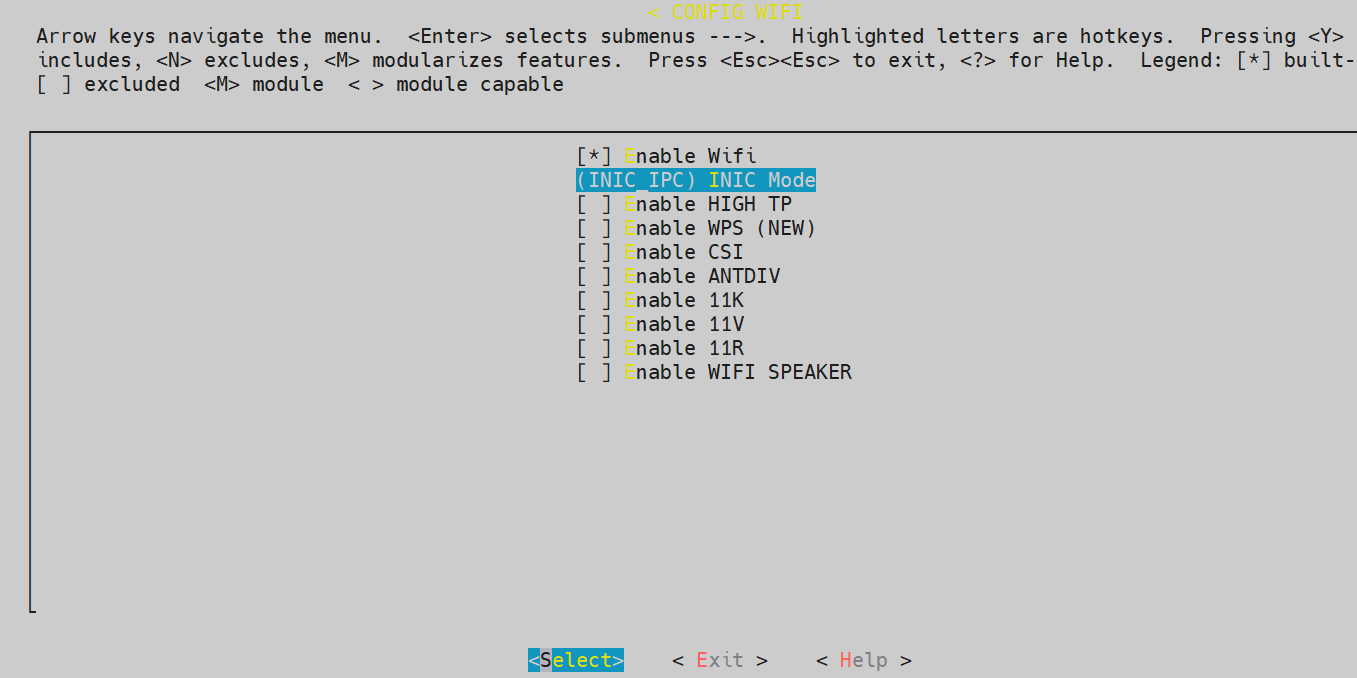
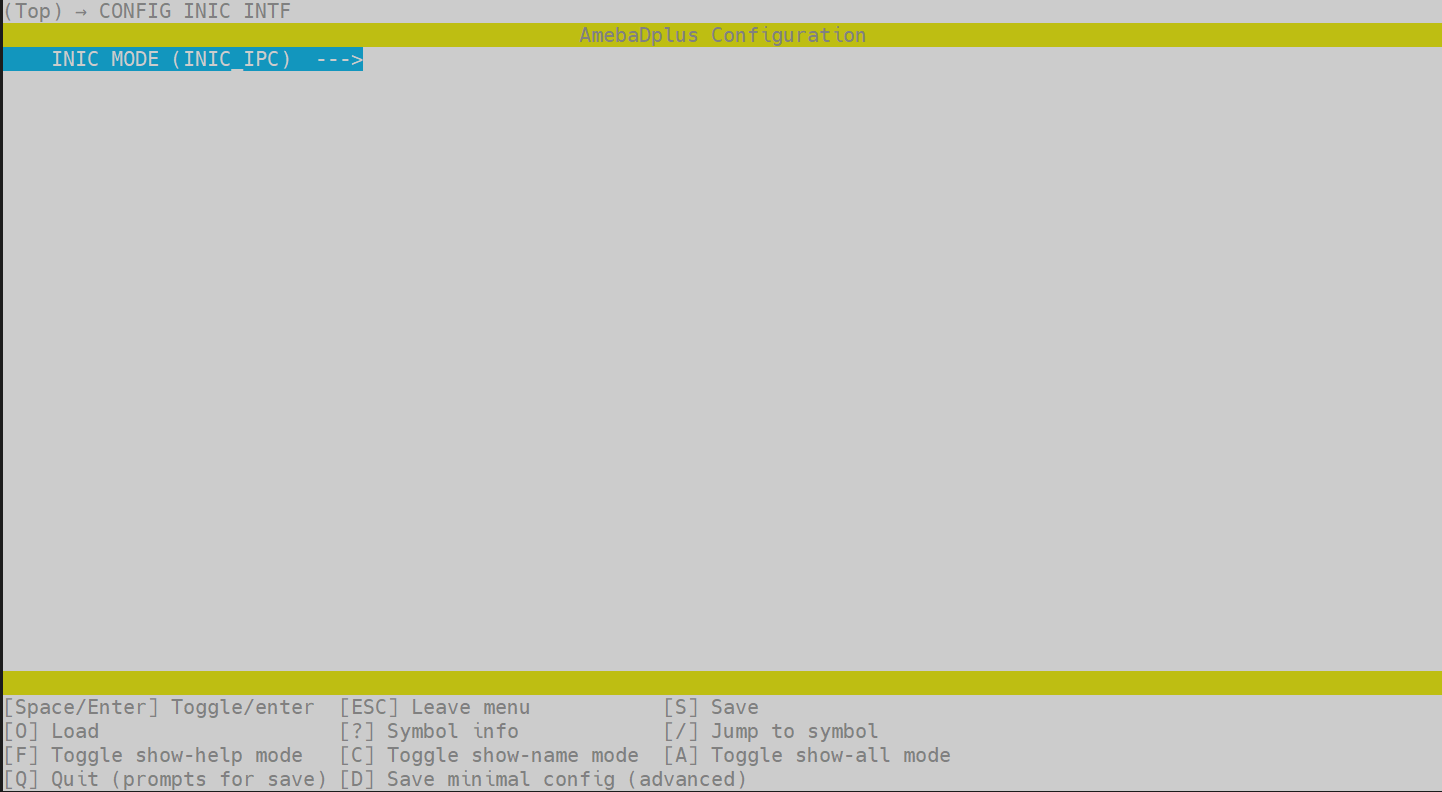
change log

Changed region(s): [[0.0, 0.1858, 1.0, 1.0], [0.0, 0.0, 1.0, 0.1549], [0.4024, 0.2168, 0.65, 0.5575]]

diff --git a/amebadplus/en/application_note/wifi/wifi_bridge/src/wifi_bridge.rst b/amebadplus/en/application_note/wifi/wifi_bridge/src/wifi_bridge.rst
@@ -77,34 +77,34 @@ The following figure shows the SDIO bridge related files which run at host.
 ::
 
    wifi\cfg80211_fullmac -- >
- 	  wifi\cfg80211_fullmac\rtl8730e -- >
-		   wifi\cfg80211_fullmac\rtl8730e\rtw_drv_probe.c
-		   wifi\cfg80211_fullmac\rtl8730e\rtw_ethtool_ops.c
-		   wifi\cfg80211_fullmac\rtl8730e\rtw_netdev_ops.c
-		   wifi\cfg80211_fullmac\rtl8730e\rtw_proc.c
-		   wifi\cfg80211_fullmac\rtl8730e\sdio -- >
-		   	wifi\cfg80211_fullmac\rtl8730e\sdio\rtw_llhw_event.c
-		   	wifi\cfg80211_fullmac\rtl8730e\sdio\rtw_llhw_event.h
-		   	wifi\cfg80211_fullmac\rtl8730e\sdio\rtw_llhw_hci.c
-		   	wifi\cfg80211_fullmac\rtl8730e\sdio\rtw_llhw_hci.h
-		   	wifi\cfg80211_fullmac\rtl8730e\sdio\rtw_llhw_memory.c
-		   	wifi\cfg80211_fullmac\rtl8730e\sdio\rtw_llhw_ops.c
-		   	wifi\cfg80211_fullmac\rtl8730e\sdio\rtw_llhw_ops.h
-		   	wifi\cfg80211_fullmac\rtl8730e\sdio\rtw_llhw_recv.c
-		   	wifi\cfg80211_fullmac\rtl8730e\sdio\rtw_llhw_trx.h
-		   	wifi\cfg80211_fullmac\rtl8730e\sdio\rtw_llhw_xmit.c
-		   	wifi\cfg80211_fullmac\rtl8730e\sdio\rtw_sdio_drvio.c
-		   	wifi\cfg80211_fullmac\rtl8730e\sdio\rtw_sdio_drvio.h
-		   	wifi\cfg80211_fullmac\rtl8730e\sdio\rtw_sdio_ops.c
-		   	wifi\cfg80211_fullmac\rtl8730e\sdio\rtw_sdio_ops.h
-		   	wifi\cfg80211_fullmac\rtl8730e\sdio\rtw_sdio_probe.c
-		   	wifi\cfg80211_fullmac\rtl8730e\sdio\rtw_sdio_reg.h
-		   wifi\cfg80211_fullmac\rtl8730e\sdio_bridge -- >
-		   	wifi\cfg80211_fullmac\rtl8730e\sdio_bridge\rtw_sdio_bridge_netlink.h
-		   	wifi\cfg80211_fullmac\rtl8730e\sdio_bridge\rtw_sdio_bridge.c
-		   	wifi\cfg80211_fullmac\rtl8730e\sdio_bridge\bridge_api -- >
-		   		wifi\cfg80211_fullmac\rtl8730e\sdio_bridge\bridge_api\rtw_sdio_bridge_api.h
-		   		wifi\cfg80211_fullmac\rtl8730e\sdio_bridge\bridge_api\rtw_sdio_bridge_api.c
+ 	  wifi\cfg80211_fullmac -- >
+		   wifi\cfg80211_fullmac\rtw_drv_probe.c
+		   wifi\cfg80211_fullmac\rtw_ethtool_ops.c
+		   wifi\cfg80211_fullmac\rtw_netdev_ops.c
+		   wifi\cfg80211_fullmac\rtw_proc.c
+		   wifi\cfg80211_fullmac\sdio -- >
+		   	wifi\cfg80211_fullmac\sdio\rtw_llhw_event.c
+		   	wifi\cfg80211_fullmac\sdio\rtw_llhw_event.h
+		   	wifi\cfg80211_fullmac\sdio\rtw_llhw_hci.c
+		   	wifi\cfg80211_fullmac\sdio\rtw_llhw_hci.h
+		   	wifi\cfg80211_fullmac\sdio\rtw_llhw_memory.c
+		   	wifi\cfg80211_fullmac\sdio\rtw_llhw_ops.c
+		   	wifi\cfg80211_fullmac\sdio\rtw_llhw_ops.h
+		   	wifi\cfg80211_fullmac\sdio\rtw_llhw_recv.c
+		   	wifi\cfg80211_fullmac\sdio\rtw_llhw_trx.h
+		   	wifi\cfg80211_fullmac\sdio\rtw_llhw_xmit.c
+		   	wifi\cfg80211_fullmac\sdio\rtw_sdio_drvio.c
+		   	wifi\cfg80211_fullmac\sdio\rtw_sdio_drvio.h
+		   	wifi\cfg80211_fullmac\sdio\rtw_sdio_ops.c
+		   	wifi\cfg80211_fullmac\sdio\rtw_sdio_ops.h
+		   	wifi\cfg80211_fullmac\sdio\rtw_sdio_probe.c
+		   	wifi\cfg80211_fullmac\sdio\rtw_sdio_reg.h
+		   wifi\cfg80211_fullmac\sdio_bridge -- >
+		   	wifi\cfg80211_fullmac\sdio_bridge\rtw_sdio_bridge_netlink.h
+		   	wifi\cfg80211_fullmac\sdio_bridge\rtw_sdio_bridge.c
+		   	wifi\cfg80211_fullmac\sdio_bridge\bridge_api -- >
+		   		wifi\cfg80211_fullmac\sdio_bridge\bridge_api\rtw_sdio_bridge_api.h
+		   		wifi\cfg80211_fullmac\sdio_bridge\bridge_api\rtw_sdio_bridge_api.c
 
 Porting Guide
 --------------------------
@@ -173,19 +173,25 @@ Host driver has been tested and verified to work on Linux kernel version v5.4. I
 
       $sudo apt-get install build-essential
 
-2. Enter ``{SDK}/component/wifi/cfg80211_fullmac/rtl8730e``, and execute the following command
+2. Enter ``{SDK}/component/wifi/cfg80211_fullmac``, and execute the following command
 
    .. code-block:: C
 
-      ./sdiobridge_setup.sh
+      ./fullmac_setup.sh sdiobridge
 
-3. Copy ``cfg80211_fullmac`` folder to host side
-
-4. Build and install host driver as below
+3. Enter ``{SDK}/component/wifi/cfg80211_fullmac``, and execute the following command to choose target device ic
 
    .. code-block:: C
 
-      $cd {driver_path}/cfg80211_fullmac/rtl8730e
+      make menuconfig
+
+4. Copy ``cfg80211_fullmac`` folder to host side
+
+5. Build and install host driver as below
+
+   .. code-block:: C
+
+      $cd {driver_path}/cfg80211_fullmac
       $make
       $sudo systemctl stop dhcpcd.service
       $sudo insmod sdio_bridge/bridge_sdio.ko
@@ -211,13 +217,13 @@ Software Configuration at |CHIP_NAME|
 ^^^^^^^^^^^^^^^^^^^^^^^^^^^^^^^^^^^^^^^^^^^^^^^^^^^^^^^^^^^^^^^^^^^^^^^^^^^^^^
 In order to build SDIO bridge image, choose :guilabel:`SDIO_BRIDGE` in menuconfig according to the following steps:
 
-1. Enter menuconfig and select :guilabel:`CONFIG WIFI`
+1. Enter menuconfig and select :guilabel:`CONFIG INIC INTF`
 
-   .. figure:: ../figures/bridge_config_wifi.png
+   .. figure:: ../figures/bridge_config_inic_intf.png
       :scale: 40%
       :align: center
 
-2. In Wi-Fi menu, select :guilabel:`INIC mode`
+2. In INIC-INTF menu, select :guilabel:`INIC MODE`
 
    .. figure:: ../figures/bridge_inic_mode.png
       :scale: 40%

diff --git a/amebadplus/en/application_note/wifi/wifi_fullmac/src/wifi_fullmac.rst b/amebadplus/en/application_note/wifi/wifi_fullmac/src/wifi_fullmac.rst
@@ -86,7 +86,7 @@ Features
 
 File Tree
 ----------
-The Linux driver in the SDK is located at: ``{SDK}/component/wifi/cfg80211_fullmac/rtl8730e``. The main focus should be on the files within the red boxes below.
+The Linux driver in the SDK is located at: ``{SDK}/component/wifi/cfg80211_fullmac``. The main focus should be on the files within the red boxes below.
 
 .. figure:: ../figures/fullmac_driver_file_tree.svg
    :scale: 100%
@@ -201,7 +201,7 @@ Software Configuration
 ~~~~~~~~~~~~~~~~~~~~~~~
 Device Driver
 ^^^^^^^^^^^^^^^^^^^^^^^^^^
-1. Execute ``make menuconfig`` under the path ``{SDK}/amebadplus_gcc_project``
+1. Execute ``./menuconfig.py`` under the path ``{SDK}/amebadplus_gcc_project``
 
    a. Click :menuselection:`CONFIG Link Option > IMG2(Application) running on FLASH or PSRAM?`, and select :menuselection:`PSRAM`
 
@@ -209,7 +209,7 @@ Device Driver
          :scale: 80%
          :align: center
 
-   b. Click :menuselection:`CONFIG WIFI > INIC Mode`, select :menuselection:`SDIO_FULLMAC` for SDIO interface or :menuselection:`SPI_FULLMAC` for SPI interface, then select ``KM0`` as ``WIFI Driver Location``. If you have any other special requirements, select ``KM4`` as ``WIFI Driver Location``.
+   b. Click :menuselection:`CONFIG INIC ITNF > INIC Mode`, select :menuselection:`SDIO_FULLMAC` for SDIO interface or :menuselection:`SPI_FULLMAC` for SPI interface.
 
       .. figure:: ../figures/wifi_sdio_spi_selection.png
          :scale: 100%
@@ -272,7 +272,7 @@ The FullMAC driver has been tested and verified to work on Linux kernel versions
 
 3. Build the module
 
-   a. In the path ``/component/wifi/cfg80211_fullmac/rtl8730e``, execute the following script with an interface parameter to configure host driver.
+   a. In the path ``/component/wifi/cfg80211_fullmac``, execute the following script with an interface parameter to configure host driver.
 
       - SDIO:
 
@@ -292,13 +292,13 @@ The FullMAC driver has been tested and verified to work on Linux kernel versions
 
       .. code-block::
 
-         cd {driver_path}/cfg80211_fullmac/rtl8730e;make 
+         cd {driver_path}/cfg80211_fullmac;make 
 
 .. _load_the_module_step_4:
 
 4. Load the module.
 
-   - SDIO: :file:`fullmac_sdio.ko` is generated in ``/cfg80211_fullmac/rtl8730e/sdio``.
+   - SDIO: :file:`fullmac_sdio.ko` is generated in ``/cfg80211_fullmac/sdio``.
 
      .. code-block:: sh
 
@@ -308,7 +308,7 @@ The FullMAC driver has been tested and verified to work on Linux kernel versions
         modprobe fullmac_sdio
 
 
-   - SPI: :file:`fullmac_spi.ko` is generated in ``/cfg80211_fullmac/rtl8730e/spi``.
+   - SPI: :file:`fullmac_spi.ko` is generated in ``/cfg80211_fullmac/spi``.
  
      .. code-block::
 
